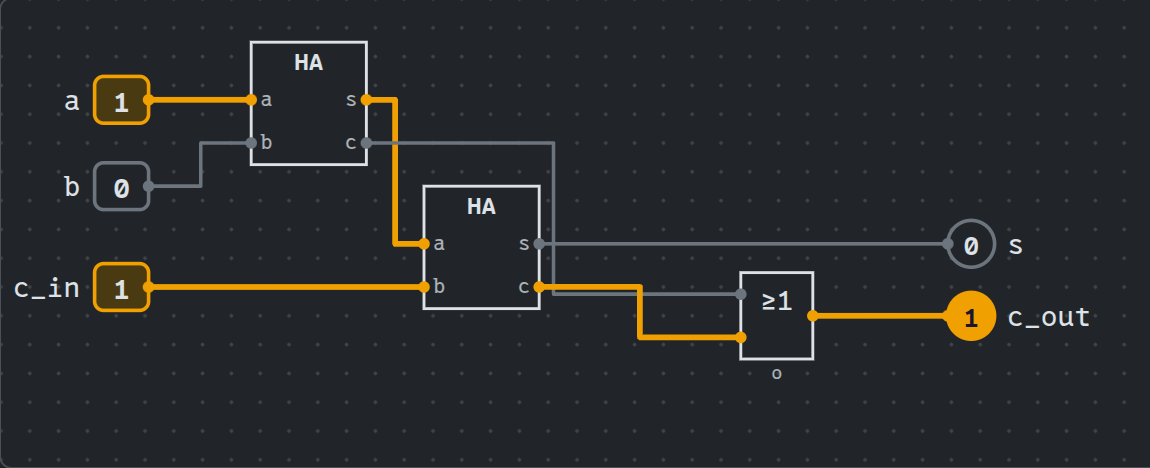
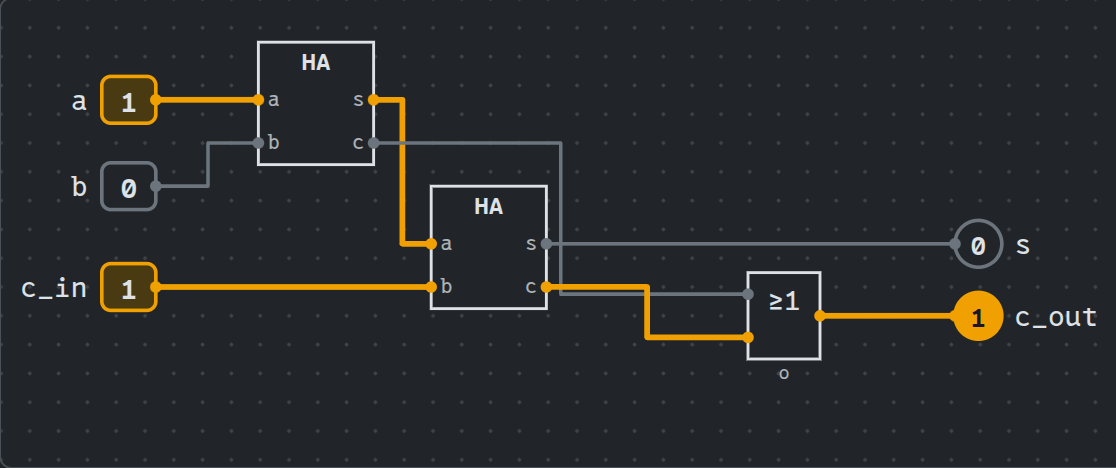
Circuit editor: a wire that would lie on a wire from another source takes a lane of its own (8 px to either side of the middle, further out below the parts for a wire back to the left), so two wires never share a piece; the drawing's viewBox from everything drawn, the names of switches and lamps inc

diff --git a/src/static/include/circuit_editor.js b/src/static/include/circuit_editor.js
@@ -33,7 +33,9 @@
 (function () {
     'use strict';
 
-    const LC = window.LogicCircuit;
+    // in node (test/static/circuit_editor.test.cjs) only the geometry
+    const isNode = typeof module !== 'undefined' && module.exports && typeof window === 'undefined';
+    const LC = isNode ? require('./logic_circuit.js') : window.LogicCircuit;
     if (!LC || !LC.Netlist) return;
     const N = LC.Netlist;
     const D = LC.draw;
@@ -124,25 +126,122 @@
     }
 
     // where a part's drawing begins on the left: a switch's name stands left of it
-    const labelLeft = (p, boxLeft) => (p.kind === 'in' ? boxLeft - 8 - 9 * p.id.length : boxLeft);
+    // a name in the mono font at 15 px: about 9 px a letter
+    const LABEL_CHAR = 9;
+    const labelLeft = (p, boxLeft) => (p.kind === 'in' ? boxLeft - 8 - LABEL_CHAR * p.id.length : boxLeft);
 
     // the source text of an output pin: g1, or h1.s for a block
     const sourceOf = (p, port) => (p.kind === 'block' ? `${p.id}.${port}` : p.id);
 
-    // the points of a wire from one pin to another, at right angles; a wire
-    // back to the left goes round below both parts
-    function route(a, b, boxA, boxB) {
+    // The ways a wire can run from one pin to another, at right angles, the
+    // plain one first: straight, or across at a column between the two pins
+    // (the middle, then lanes 8 px to either side), or, back to the left,
+    // round below both parts (lanes further out).
+    function routes(a, b, boxA, boxB) {
         const [x0, y0] = a;
         const [x1, y1] = b;
-        if (y0 === y1 && x1 > x0) return [[x0, y0], [x1, y1]];
+        if (y0 === y1 && x1 > x0) return [[[x0, y0], [x1, y1]]];
         if (x1 - x0 >= 16) {
-            const xm = Math.round((x0 + x1) / 2 / 4) * 4;
-            return [[x0, y0], [xm, y0], [xm, y1], [x1, y1]];
+            const middle = Math.round((x0 + x1) / 2 / 4) * 4;
+            const list = [];
+            for (let k = 0; k < 40; k++) {
+                const xm = middle + (k % 2 ? 1 : -1) * 8 * Math.ceil(k / 2);
+                if (xm >= x0 + 6 && xm <= x1 - 6) list.push([[x0, y0], [xm, y0], [xm, y1], [x1, y1]]);
+            }
+            return list;
         }
-        const xa = x0 + 12;
-        const xb = x1 - 12;
         const bottom = Math.max(boxA[1] + boxA[3], boxB[1] + boxB[3]) + 14;
-        return [[x0, y0], [xa, y0], [xa, bottom], [xb, bottom], [xb, y1], [x1, y1]];
+        const list = [];
+        for (let k = 0; k < 5; k++) {
+            for (let j = 0; j < 5; j++) {
+                const xa = x0 + 12 + 8 * j;
+                const xb = x1 - 12 - 8 * j;
+                const yb = bottom + 8 * k;
+                list.push([[x0, y0], [xa, y0], [xa, yb], [xb, yb], [xb, y1], [x1, y1]]);
+            }
+        }
+        return list;
+    }
+
+    // the plain way, for one wire alone
+    const route = (a, b, boxA, boxB) => routes(a, b, boxA, boxB)[0];
+
+    // whether two pieces of wire lie on top of each other for more than a point
+    function shared([p, q], [r, t]) {
+        if (p[0] === q[0] && r[0] === t[0] && p[0] === r[0]) {
+            return Math.min(Math.max(p[1], q[1]), Math.max(r[1], t[1])) - Math.max(Math.min(p[1], q[1]), Math.min(r[1], t[1])) > 0;
+        }
+        if (p[1] === q[1] && r[1] === t[1] && p[1] === r[1]) {
+            return Math.min(Math.max(p[0], q[0]), Math.max(r[0], t[0])) - Math.max(Math.min(p[0], q[0]), Math.min(r[0], t[0])) > 0;
+        }
+        return false;
+    }
+
+    const pieces = (points) => points.slice(1).map((q, i) => [points[i], q]);
+
+    // Every wire of a circuit ({ src, a, b, boxA, boxB }) gets its points:
+    // the first way on which it shares no piece with a wire from another
+    // source (one source may share: that is where it branches, with a dot).
+    // Straight wires go first, they cannot move.
+    function routeAll(wires) {
+        const placed = [];
+        const order = wires.map((w) => ({ w, ways: routes(w.a, w.b, w.boxA, w.boxB) }))
+            .sort((x, y) => (y.ways.length === 1) - (x.ways.length === 1));
+        for (const { w, ways } of order) {
+            const free = ways.find((way) => pieces(way).every((piece) => placed.every((o) => o.src === w.src || !shared(piece, o.piece))));
+            w.points = free || ways[0];
+            for (const piece of pieces(w.points)) placed.push({ src: w.src, piece });
+        }
+        return wires;
+    }
+
+    // the wires of a circuit's top level, routed
+    function wiresOf(circuit) {
+        const geoms = new Map(circuit.parts.map((p) => [p.id, geom(circuit, p)]));
+        const list = [];
+        for (const p of circuit.parts) {
+            p.src.forEach((src, i) => {
+                if (!src) return;
+                const [id, port] = src.split('.');
+                const from = geoms.get(id);
+                if (!from) return;
+                const a = from.outs[port || ''];
+                const b = geoms.get(p.id).ins[i];
+                if (!a || !b) return;
+                list.push({ src, a, b, boxA: from.box, boxB: geoms.get(p.id).box, to: [p.id, i] });
+            });
+        }
+        return routeAll(list);
+    }
+
+    // [left, top, right, bottom] of everything drawn: parts, the names of
+    // switches (left of them) and lamps (right of them), the wires
+    function extentOf(circuit, wires = wiresOf(circuit)) {
+        let [x0, y0, x1, y1] = [Infinity, Infinity, -Infinity, -Infinity];
+        for (const p of circuit.parts) {
+            const [x, y, bw, bh] = geom(circuit, p).box;
+            x0 = Math.min(x0, labelLeft(p, x));
+            y0 = Math.min(y0, y);
+            x1 = Math.max(x1, x + bw + (p.kind === 'out' ? 7 + LABEL_CHAR * p.id.length : 0));
+            y1 = Math.max(y1, y + bh + (GATES[p.kind] ? 14 : 0));
+        }
+        for (const w of wires) {
+            for (const [x, y] of w.points) {
+                x0 = Math.min(x0, x);
+                x1 = Math.max(x1, x);
+                y1 = Math.max(y1, y);
+            }
+        }
+        return x0 === Infinity ? [0, 0, 0, 0] : [x0, y0, x1, y1];
+    }
+
+    // the viewBox: everything drawn and a margin of 12 around it, from 0, 0
+    // unless something lies further left or up
+    function viewBoxOf(circuit, min = [0, 0]) {
+        const [x0, y0, x1, y1] = extentOf(circuit);
+        const left = Math.min(0, x0 - 12);
+        const top = Math.min(0, y0 - 12);
+        return [left, top, Math.max(x1 + 12 - left, min[0]), Math.max(y1 + 12 - top, min[1])];
     }
 
     // ------------------------------------------------------------------
@@ -191,6 +290,11 @@
                 }
             }
         }
+    }
+
+    if (isNode) {
+        module.exports = { geom, route, routes, routeAll, wiresOf, layout, labelLeft, extentOf, viewBoxOf, shared, pieces };
+        return;
     }
 
     // ------------------------------------------------------------------
@@ -1046,17 +1150,13 @@ html[data-bs-theme="dark"] .circuit-editor[data-free], html[data-bs-theme="dark"
         // ------------------------------------------------------------------
         // Drawing
 
-        // the drawing as large as what is on it; the canvas around it (with
-        // the grid) fills the rest of the line, and the table goes below
-        // when both do not fit beside each other
-        // While building, at its own size (the canvas scrolls); only to look
-        // at (a phone, a circuit on the page), as wide as there is room for.
+        // While building, the drawing has its own size, everything drawn and
+        // a margin (viewBoxOf), and the canvas around it with the grid fills
+        // the rest of the line, or scrolls; the table goes below when both
+        // do not fit side by side. Only to look at (a phone, a circuit on
+        // the page), it is as wide as there is room for.
         fitCanvas() {
-            const [x0, y0, x1, y1] = this.extent();
-            const left = Math.min(0, x0 - 8);
-            const top = Math.min(0, y0 - 8);
-            const w = Math.max(x1 - left, this.mode === 'view' ? 200 : 320);
-            const h = Math.max(y1 - top, this.mode === 'view' ? 0 : 260);
+            const [left, top, w, h] = viewBoxOf(this.c, this.mode === 'view' ? [200, 0] : [320, 260]);
             this.svg.setAttribute('viewBox', `${left} ${top} ${w} ${h}`);
             if (this.canEdit()) {
                 this.svg.setAttribute('width', w);
@@ -1072,17 +1172,8 @@ html[data-bs-theme="dark"] .circuit-editor[data-free], html[data-bs-theme="dark"
             }
         }
 
-        // [left, top, right, bottom] of everything drawn, labels included
         extent() {
-            let [x0, y0, x1, y1] = [Infinity, Infinity, 0, 0];
-            for (const p of this.c.parts) {
-                const [x, y, bw, bh] = geom(this.c, p).box;
-                x0 = Math.min(x0, labelLeft(p, x));
-                y0 = Math.min(y0, y);
-                x1 = Math.max(x1, x + bw + 24 + (p.kind === 'out' ? 10 + 9 * p.id.length : 0));
-                y1 = Math.max(y1, y + bh + 40);
-            }
-            return x0 === Infinity ? [0, 0, 0, 0] : [x0, y0, x1 + 8, y1];
+            return extentOf(this.c);
         }
 
         render() {
@@ -1099,20 +1190,8 @@ html[data-bs-theme="dark"] .circuit-editor[data-free], html[data-bs-theme="dark"
             this.lampEls = [];
             this.switchEls = [];
             this.pinEls = [];
-            // wires
-            const list = [];
-            for (const p of c.parts) {
-                p.src.forEach((src, i) => {
-                    if (!src) return;
-                    const [id, port] = src.split('.');
-                    const from = this.part(id);
-                    if (!from) return;
-                    const a = geoms.get(id).outs[port || ''];
-                    const b = geoms.get(p.id).ins[i];
-                    if (!a || !b) return;
-                    list.push({ src, points: route(a, b, geoms.get(id).box, geoms.get(p.id).box), to: [p.id, i] });
-                });
-            }
+            // wires, each in a lane of its own where it would lie on another
+            const list = wiresOf(c);
             for (const w of list) {
                 const d = D.pathOf(w.points);
                 const selected = this.sel && this.sel.wire && this.sel.wire[0] === w.to[0] && this.sel.wire[1] === w.to[1];

diff --git a/e2e/tests/logic-workshop.browser.spec.ts b/e2e/tests/logic-workshop.browser.spec.ts
@@ -34,6 +34,18 @@ async function wire(page: Page, from: Locator, to: Locator) {
   await page.mouse.up();
 }
 
+// the texts of a drawing that stick out of it (a name cut off at the edge),
+// measured in the browser
+async function textsOutside(scope: Locator) {
+  return scope.locator('svg.ce-svg').first().evaluate((svg: SVGSVGElement) => {
+    const vb = svg.viewBox.baseVal;
+    return Array.from(svg.querySelectorAll('text')).filter((t) => {
+      const b = (t as SVGTextElement).getBBox();
+      return b.width > 0 && (b.x < vb.x || b.y < vb.y || b.x + b.width > vb.x + vb.width || b.y + b.height > vb.y + vb.height);
+    }).map((t) => t.textContent);
+  });
+}
+
 // no stored answers and no drafts or blocks in the browser: every run starts
 // with empty editors
 async function forget(page: Page, ids: string[]) {
@@ -178,6 +190,8 @@ test('a half adder becomes a block, wired into a full adder with the keyboard', 
   await full.locator('.task-submit').click();
   await expect(full.locator('.task-feedback')).toContainText('Alle 8 Zeilen der Wahrheitstabelle stimmen.');
   await full.locator('.task-reads-toggle').click();
+  // c_in, the longest name on the left, and c_out on the right are whole
+  expect(await textsOutside(va)).toEqual([]);
   await va.screenshot({ path: testInfo.outputPath('full-adder.png') });
   expect(errors).toEqual([]);
 });
@@ -227,6 +241,7 @@ test('on a phone the circuits are to look at and to switch', async ({ page }, te
   await view.scrollIntoViewIfNeeded();
   await part(view, 'a').click();
   await expect(part(view, 'y').locator('text').first()).toHaveText('1');
+  for (const v of await page.locator('.circuit-view').all()) expect(await textsOutside(v)).toEqual([]);
   for (const scheme of ['light', 'dark'] as const) {
     await page.emulateMedia({ colorScheme: scheme, reducedMotion: 'reduce' });
     await page.evaluate((s) => document.documentElement.setAttribute('data-bs-theme', s), scheme);

diff --git a/docs/widgets.md b/docs/widgets.md
@@ -434,7 +434,10 @@ only to look nice.
   it is dropped. Parts move on an 8 px grid and snap so that a wire becomes
   straight; wires run at right angles from an output pin (right) to an
   input pin (left), back to the left around below both parts, a dot where
-  one branches; an open input is an empty ring. A wire is dragged, or on a
+  one branches; a wire that would lie on a wire from another source moves to
+  a lane of its own 8 px beside it (crossings are fine, shared pieces are
+  not); the names of switches and lamps always lie inside the drawing
+  (`test/static/circuit_editor.test.cjs`); an open input is an empty ring. A wire is dragged, or on a
   touch screen tapped pin after pin. Keyboard: Tab from part to part, arrows
   move, the space bar switches, Entf deletes, V and a digit draw a wire,
   Strg+Z and Strg+Y undo and redo (100 steps). Beside it the circuit's own
